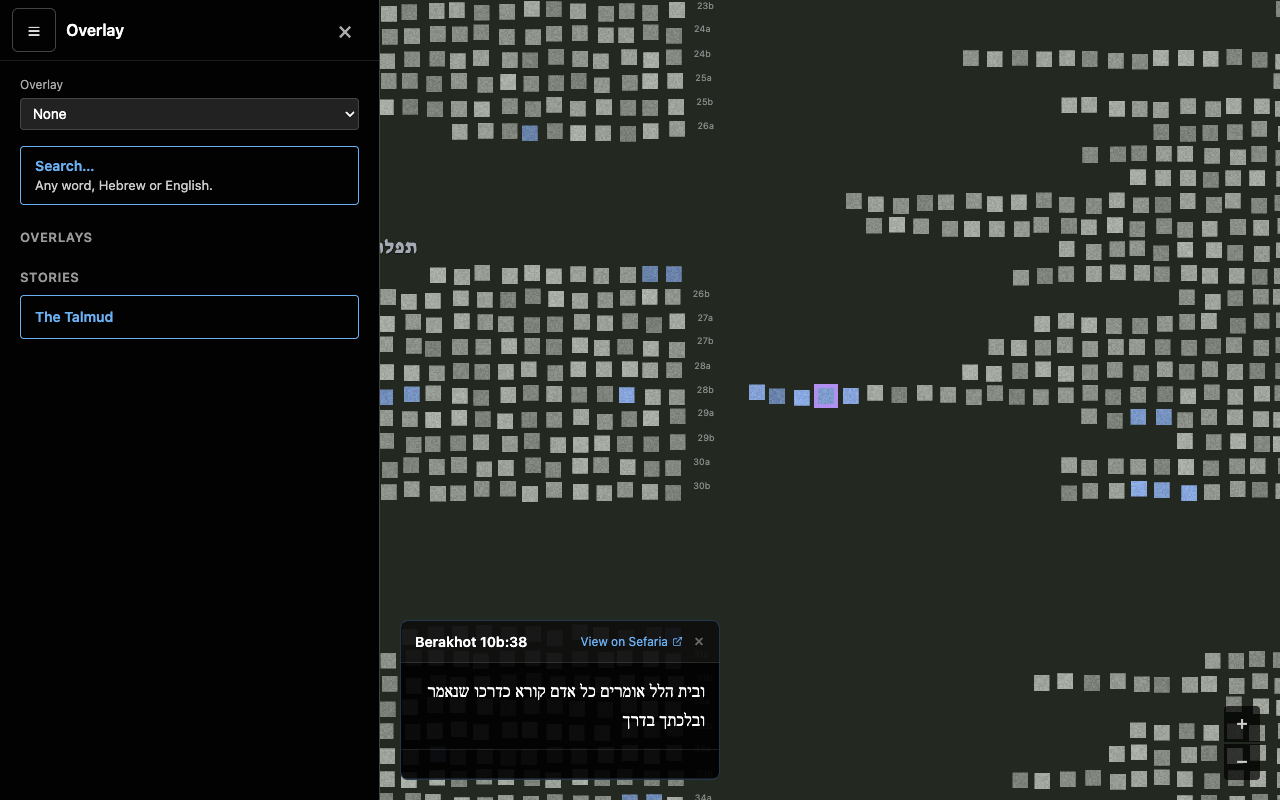
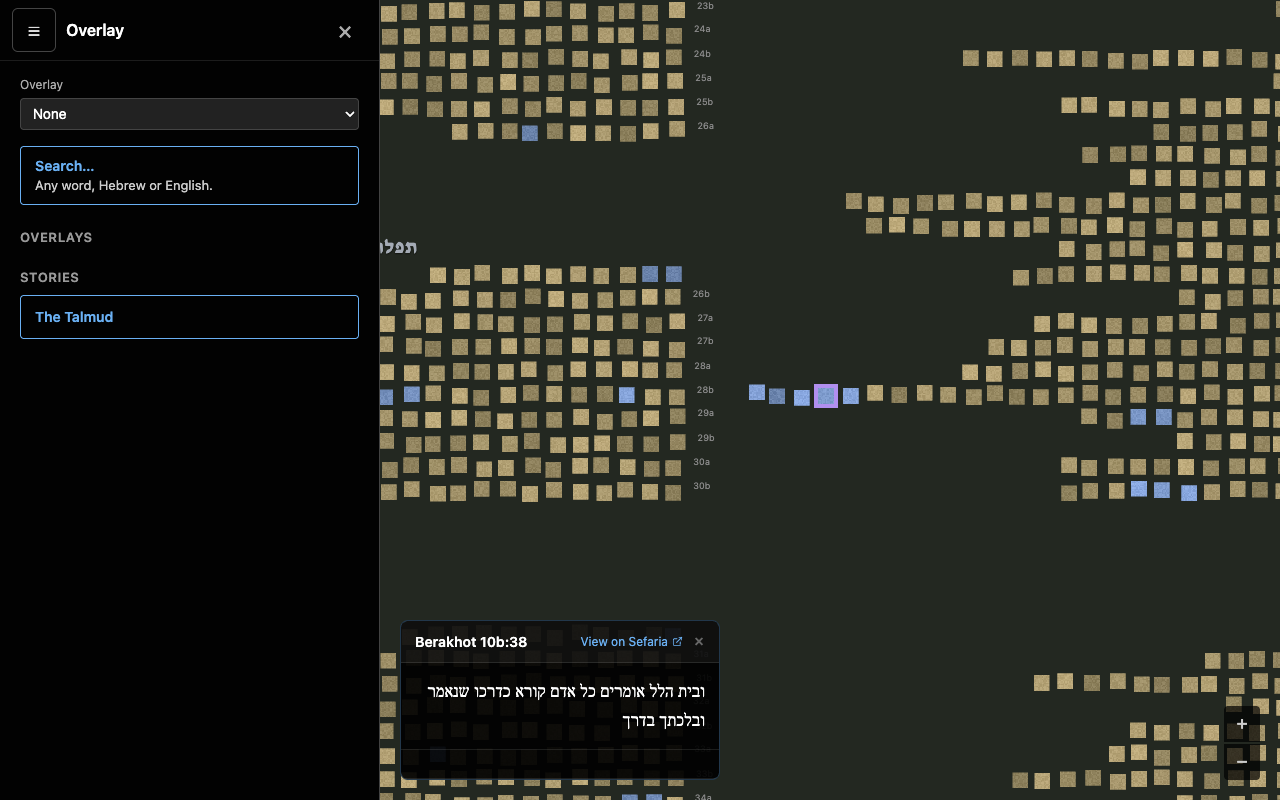
Gemara gets a parchment tint, so it reads as coloured
Its grey was the same as the grey of a square nothing colours. A
provisional colour; the Talmud's look is settled in its own design round.

diff --git a/src/talmud/constants.ts b/src/talmud/constants.ts
@@ -27,11 +27,11 @@ export const SEDER_ORDER: readonly string[] = [
 ];
 
 // --- Base colors (muted, similar, "rainfall over both") ---
-// MISHNAH = slate blue, saturated enough to read against gemara grey.
-// GEMARA = neutral grey.
+// MISHNAH = slate blue. GEMARA = a warm parchment, so it reads as coloured
+// rather than as the grey of a square nothing colours.
 
 export const MISHNAH_BASE_COLOR: readonly [number, number, number] = [0.48, 0.58, 0.82];
-export const GEMARA_BASE_COLOR: readonly [number, number, number] = [0.58, 0.58, 0.58];
+export const GEMARA_BASE_COLOR: readonly [number, number, number] = [0.66, 0.57, 0.42];
 
 // --- Per-segment brightness jitter ---
 // Each segment gets a deterministic ±BRIGHTNESS_JITTER offset so the grid
